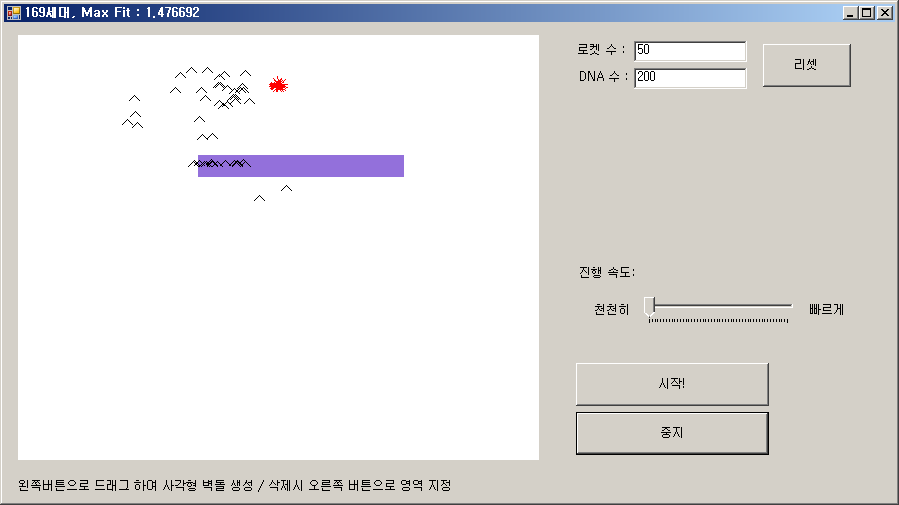
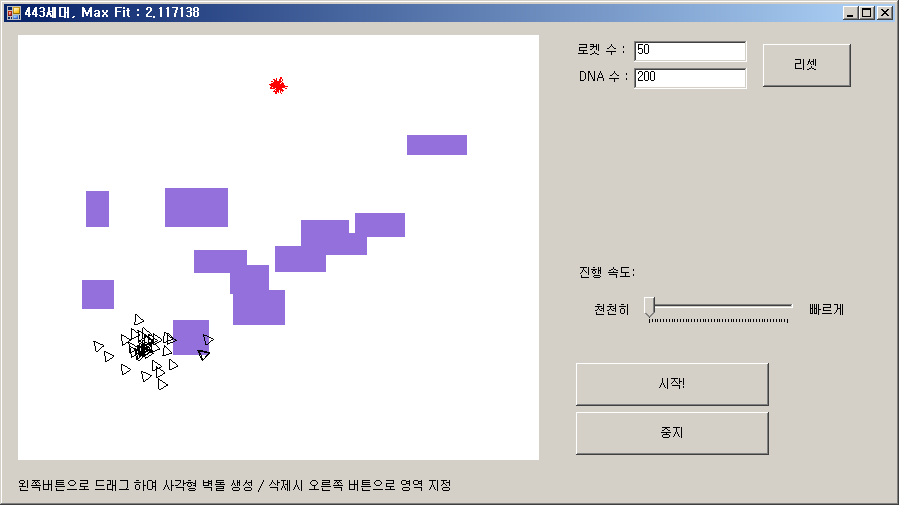
Modified Rocket Direction Draw

diff --git a/SimpleRocket/Rocket.cs b/SimpleRocket/Rocket.cs
@@ -7,6 +7,8 @@ using System.Windows;
 using System.Drawing;
 using System.Numerics;
 
+using NeuralNetworkLibrary;
+
 namespace SimpleRocket
 {   class Rocket
     {
@@ -30,8 +32,9 @@ namespace SimpleRocket
         private void init(string name, float x, float y)
         {
             this.name = name;
-            this.pos.X = x;
-            this.pos.Y = y;
+            this.pos = new Vector2(x, y);
+            this.vel = new Vector2(0, 0);
+            this.accel = new Vector2(0, 0);
         }
         public Rocket(string name, float x, float y, int dnaCount)
         {
@@ -101,15 +104,17 @@ namespace SimpleRocket
 
         public void Draw(Graphics g)
         {
-            //g.DrawEllipse(Pens.Black, (float)this.pos.X, (float)this.pos.Y, (float)this.size, (float)this.size);
-
-            int x = (int)(this.pos.X - (int)(size / 2));
-            int y = (int)(this.pos.Y - (int)(size / 2));
-
+            Vector2 center = new Vector2(this.pos.X + (size / 2), this.pos.Y + (size / 2));
             Vector2 dir = Vector2.Normalize(vel);
+            Vector2 left = new Vector2(-size, size/2);
+            Vector2 right = new Vector2(-size, -size/2);
 
-            g.DrawLine(Pens.Black, x, y, x + (size / 2) , y + (size / 2));
-            g.DrawLine(Pens.Black, x, y, x - (size / 2) , y + (size / 2));
+            left = center + Vector2D.RotateFromDirection(left, dir);
+            right = center + Vector2D.RotateFromDirection(right, dir);
+       
+            g.DrawLine(Pens.Black, center.X, center.Y, left.X,left.Y);
+            g.DrawLine(Pens.Black, center.X, center.Y, right.X, right.Y);
+            g.DrawLine(Pens.Black, left.X, left.Y, right.X, right.Y);
         }
 
     }

diff --git a/NeuralNetworkLibrary/Vector2D.cs b/NeuralNetworkLibrary/Vector2D.cs
@@ -37,5 +37,21 @@ namespace NeuralNetworkLibrary
             return result;
 
         }
+
+        public static Vector2 RotateFromDirection(Vector2 v, Vector2 direction)
+        {
+            Vector2 result = new Vector2();
+
+            /**
+             *  [ cos  -sin ] [x]
+             *  [ sin   cos ] [y]
+             * */
+
+            result.X = (float)(direction.X * v.X - direction.Y * v.Y);
+            result.Y = (float)(direction.Y * v.X + direction.X * v.Y);
+
+            return result;
+
+        }
     }
 }
